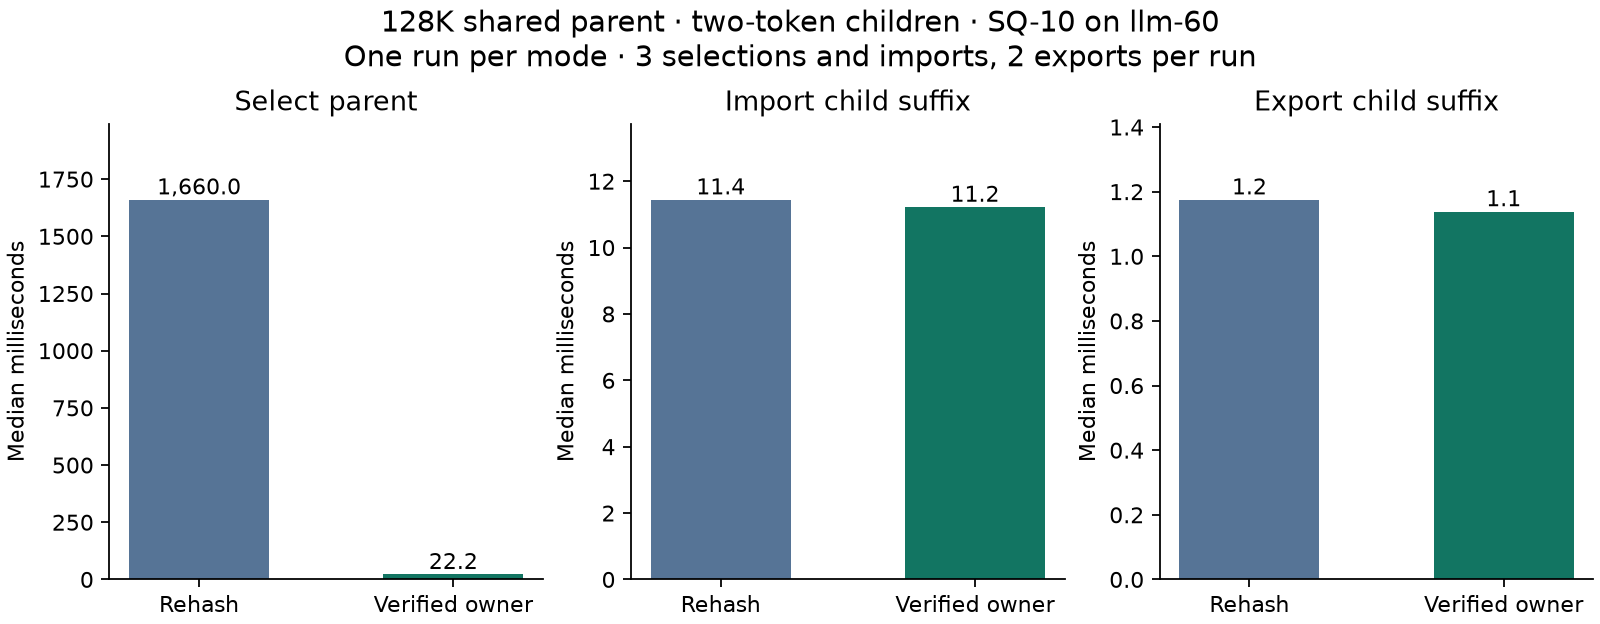
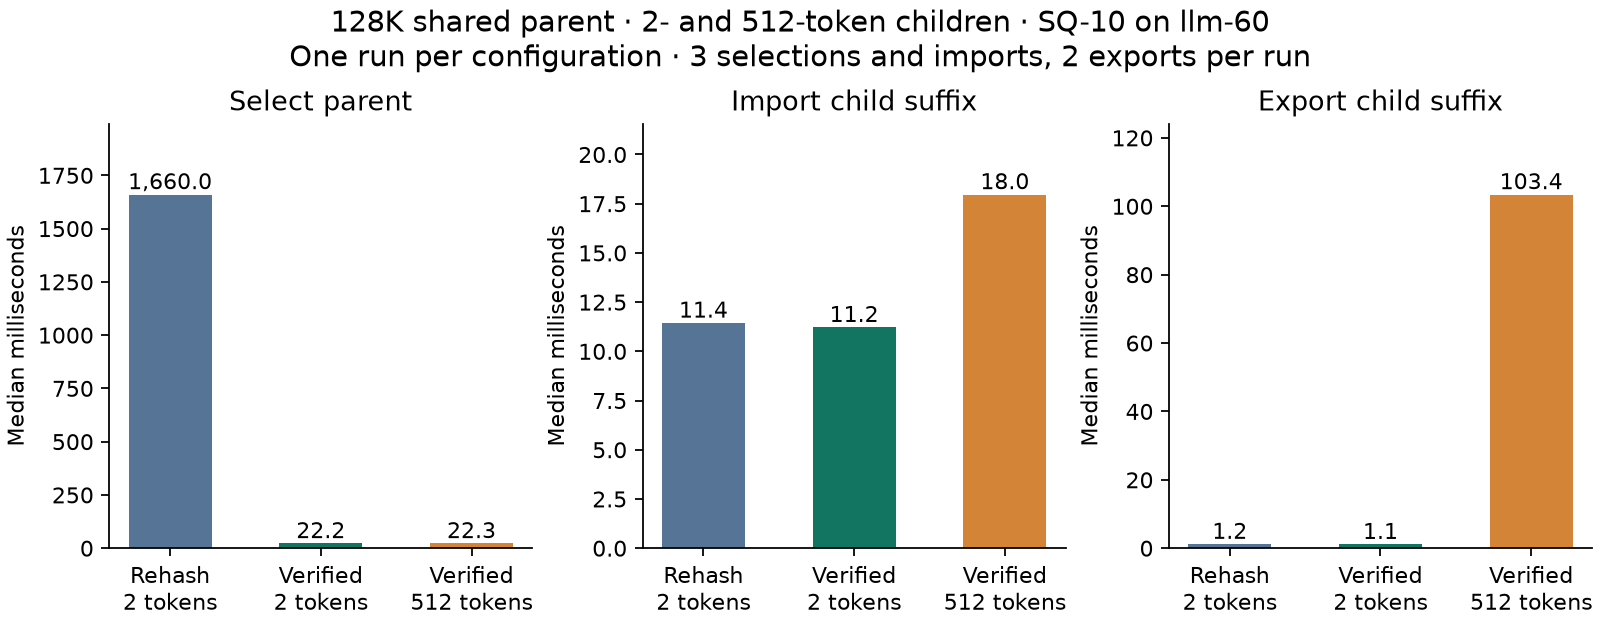
Measure and chart 512-token sibling transfers on a shared 128K parent

diff --git a/tools/test_inkling_pinned_suffix.py b/tools/test_inkling_pinned_suffix.py
@@ -15,11 +15,13 @@ def main():
     parser = argparse.ArgumentParser(description=__doc__)
     parser.add_argument('runtime', type=Path)
     parser.add_argument('--parent-tokens', type=int, default=1017)
+    parser.add_argument('--child-tokens', type=int, default=2)
     args = parser.parse_args()
-    if not 1 <= args.parent_tokens <= 133117:
-        parser.error('parent must leave room for three continuation tokens')
+    capacity = args.parent_tokens + args.child_tokens + 1
+    if min(args.parent_tokens, args.child_tokens) < 1 or capacity > 133120:
+        parser.error('positive parent and child lengths must leave room for one continuation token')
     history = tuple(100 + pos % 1000 for pos in range(args.parent_tokens))
-    profile = runtime_profile(args.runtime.resolve(), pack='SQ-10', capacity=max(16384, len(history) + 3))
+    profile = runtime_profile(args.runtime.resolve(), pack='SQ-10', capacity=max(16384, capacity))
     backend = load_backend(profile)
     try:
         with backend.lease() as lease:
@@ -32,7 +34,8 @@ def main():
             digest = restore_payload_digest(owner.blob)
             children = []
             export_times = []
-            for tokens in [(110, 111), (150, 151)]:
+            for first in (110, 150):
+                tokens = tuple(first + pos % 1000 for pos in range(args.child_tokens))
                 backend.restore(lease, parent, history=history, frontier=parent_row)
                 backend.consume(lease, tokens)
                 started = perf_counter()
@@ -51,7 +54,7 @@ def main():
                 started = perf_counter()
                 backend.restore(lease, parent, history=history, frontier=parent_row)
                 select_times.append(perf_counter() - started)
-                child_length = len(history) + 2
+                child_length = len(history) + args.child_tokens
                 assert not backend.restore_pinned_suffix(lease, len(history), bytes(32), child_length, suffix, row)
                 start = perf_counter()
                 assert backend.restore_pinned_suffix(lease, len(history), digest, child_length, suffix, row)
@@ -62,7 +65,7 @@ def main():
             transferred = after['checkpoint_import_bytes'] - before['checkpoint_import_bytes']
             assert transferred == sum(len(children[i][0]) for i in (1, 0, 1))
             assert after['consumed_tokens'] - before['consumed_tokens'] == 3
-            print(json.dumps(dict(parent_tokens=len(history), parent_bytes=len(parent),
+            print(json.dumps(dict(parent_tokens=len(history), child_tokens=args.child_tokens, parent_bytes=len(parent),
                                   import_bytes=transferred, restores=3, restore_seconds=timings,
                                   parent_select_seconds=select_times, suffix_export_seconds=export_times,
                                   exact_logits=backend.vocab_size)))

diff --git a/docs/benchmarks/inkling/plot_suffix_phases.py b/docs/benchmarks/inkling/plot_suffix_phases.py
@@ -11,16 +11,18 @@ with (folder / 'suffix-128k-phases.csv').open() as source:
 fig, axes = plt.subplots(1, 3, figsize=(10, 3.9), layout='constrained')
 for ax, key, title in zip(axes, ('parent_select_seconds', 'restore_seconds', 'suffix_export_seconds'),
                           ('Select parent', 'Import child suffix', 'Export child suffix')):
-    for index, (mode, color) in enumerate([('Rehash', '#567496'), ('Verified owner', '#127562')]):
-        samples = [float(r['ms']) for r in rows if r['phase'] == key and r['parent_verification'] == mode]
+    for index, (mode, length, color) in enumerate([('Rehash', '2', '#567496'), ('Verified owner', '2', '#127562'),
+                                                  ('Verified owner', '512', '#d48436')]):
+        samples = [float(r['ms']) for r in rows if r['phase'] == key and r['parent_verification'] == mode
+                   and r['child_tokens'] == length]
         value = median(samples)
         ax.bar(index, value, color=color, width=.55)
         ax.text(index, value, f'{value:,.1f}', ha='center', va='bottom')
-    ax.set_xticks([0, 1], ['Rehash', 'Verified owner'])
+    ax.set_xticks(range(3), ['Rehash\n2 tokens', 'Verified\n2 tokens', 'Verified\n512 tokens'])
     ax.set_title(title)
     ax.set_ylabel('Median milliseconds')
     ax.margins(y=.2)
     ax.spines[['top', 'right']].set_visible(False)
-fig.suptitle('128K shared parent · two-token children · SQ-10 on llm-60\n'
-             'One run per mode · 3 selections and imports, 2 exports per run', fontsize=13)
+fig.suptitle('128K shared parent · 2- and 512-token children · SQ-10 on llm-60\n'
+             'One run per configuration · 3 selections and imports, 2 exports per run', fontsize=13)
 fig.savefig(folder / 'suffix-128k-phases.png', dpi=160)

diff --git a/docs/benchmarks/inkling/qualification.md b/docs/benchmarks/inkling/qualification.md
@@ -105,3 +105,5 @@ Three sequential SQ-10 lookups on llm-60 reused the same 130,000-token parent wi
 ![Median parent selection, suffix import and suffix export time on llm-60](suffix-128k-phases.png)
 
 Two SQ-10 branches extended the same 131,072-token parent by two tokens each. Each switch in B → A → B order imported 4,227,072 bytes and reproduced 200,058 continuation logits. Reusing the verified immutable checkpoint owner reduced median parent selection from 1,660 ms to 22.2 ms. Suffix import took another 11.2 ms. Measurements cover the Python backend after prefill. HTTP publication and durable restart remain open. [Per-observation measurements](suffix-128k-phases.csv)
+
+With 512 fixed continuation tokens per child, each switch transferred 104,497,152 bytes. Median verified parent selection took 22.3 ms, suffix import 18.0 ms and suffix export 103.4 ms. All three switches reproduced the uninterrupted continuation logits. Reproduce this row with `--parent-tokens 131072 --child-tokens 512`.
